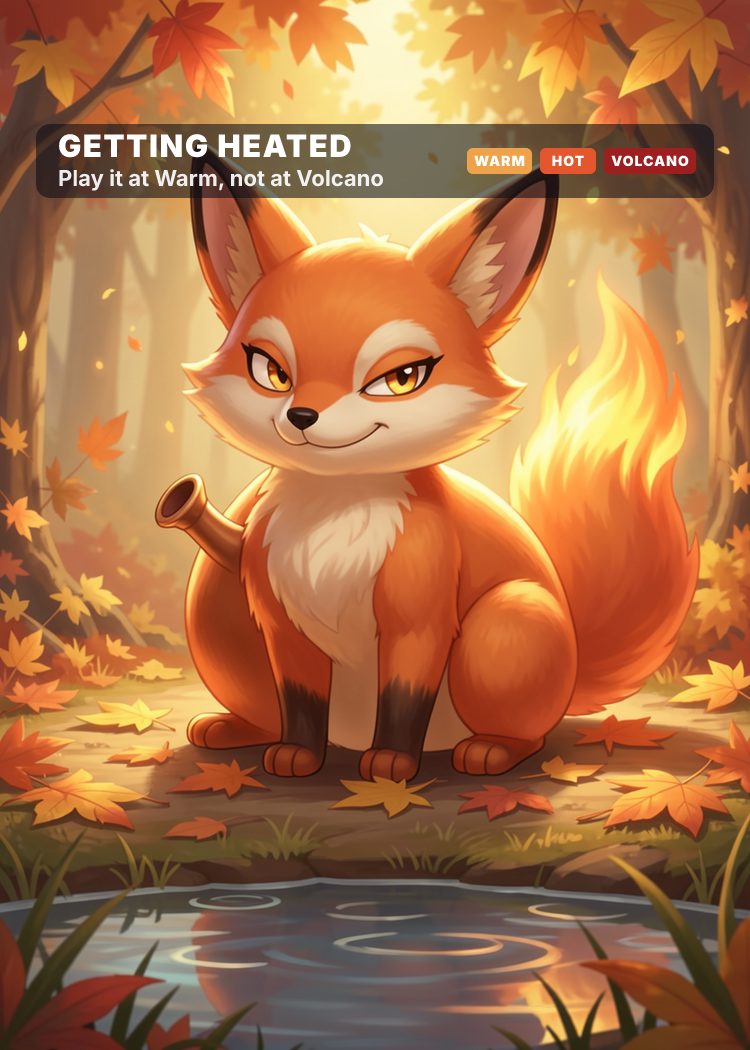
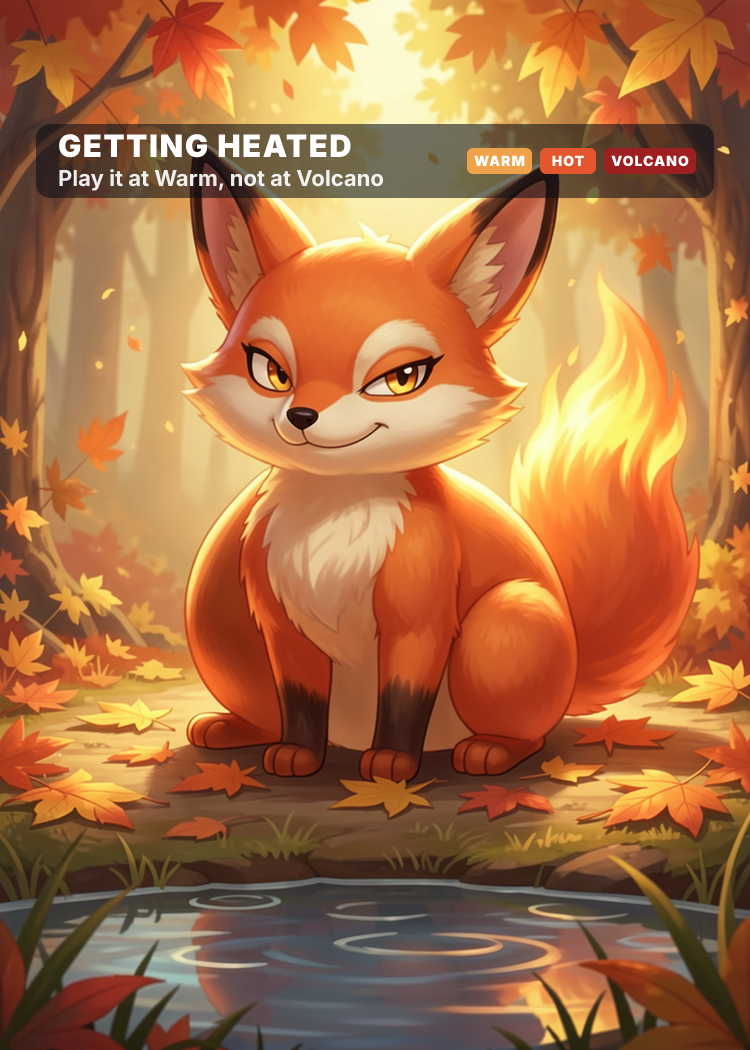
Match the Feelings Deck to its two-line rework
Each card is now the big line you say (the one attack) plus what everyone
else does (the "Everyone Else" ability), with the one rule as the attack
text: when you get this card, say "OK." Weakness lines and the old
ability/attack names are gone. Kettlit's illustration is a Klein edit of
the picked fox with the kettle spout erased.

Claude-Session: https://claude.ai/code/session_01K4RGgdiLeH2ARLePii8AkL

Changed region(s): [[0.184, 0.4267, 0.3373, 0.5486]]

diff --git a/src/server/services/custom-sets.test.ts b/src/server/services/custom-sets.test.ts
@@ -48,10 +48,24 @@ describe("custom sets — the committed Feelings Deck", () => {
     expect(kettlit.id).toBe("custom-feel-001");
     expect(kettlit.image).toBe("/api/custom-sets/art/custom-feel-001");
     expect(kettlit.set).toEqual({ id: "custom-feel", name: "Feelings Deck", cardCount: { official: 8, total: 8 } });
-    expect(kettlit.abilities?.[0]?.name).toBe("Early Whistle");
-    expect(kettlit.attacks?.map((a) => a.name)).toEqual(["Let Off Steam", "Cool Down"]);
+    expect(kettlit.abilities?.[0]?.name).toBe("Everyone Else");
+    expect(kettlit.attacks?.map((a) => a.name)).toEqual(["I'm getting mad."]);
     expect(getCustomCardRaw("custom-feel-001")).toBe(kettlit);
     expect(getCustomCardRaw("sv01-001")).toBeUndefined();
+  });
+
+  test("every card follows the two-line grammar: an 'Everyone Else' ability and one say-line attack", () => {
+    // Mirrors the Feelings Deck page: the big line is what you're saying
+    // (the attack), the small line is what everybody else does (the
+    // ability), and every card closes with the one rule.
+    for (const c of getCustomSetCards("FEEL")) {
+      expect(c.abilities?.map((a) => a.name)).toEqual(["Everyone Else"]);
+      expect(c.abilities?.[0]?.effect.length).toBeGreaterThan(0);
+      expect(c.attacks?.length).toBe(1);
+      expect(c.attacks?.[0]?.cost).toEqual([c.types?.[0]]);
+      expect(c.attacks?.[0]?.name.length).toBeGreaterThan(0);
+      expect(c.attacks?.[0]?.effect).toStartWith('When you get this card, say "OK."');
+    }
   });
 
   test("every card has a committed artwork PNG", () => {
@@ -86,9 +100,10 @@ describe("custom sets — card store, detail and import resolution", () => {
   test("getCardDetail carries the ability and attacks without a cache JSON", async () => {
     const detail = await getCardDetail("custom-feel-006");
     expect(detail?.name).toBe("Shellter");
-    expect(detail?.abilities[0]?.name).toBe("Shell Up");
-    expect(detail?.attacks.map((a) => a.name)).toEqual(["Hide Out", "Come Back Out"]);
-    expect(detail?.attacks[1]?.cost).toEqual(["Water", "Water"]);
+    expect(detail?.abilities[0]?.name).toBe("Everyone Else");
+    expect(detail?.abilities[0]?.effect).toBe("Don't follow me. I'll come back.");
+    expect(detail?.attacks.map((a) => a.name)).toEqual(["I need to be alone."]);
+    expect(detail?.attacks[0]?.cost).toEqual(["Water"]);
     expect(detail?.attacks[0]?.damage).toBeUndefined();
     expect(detail?.retreat).toBe(0);
   });
